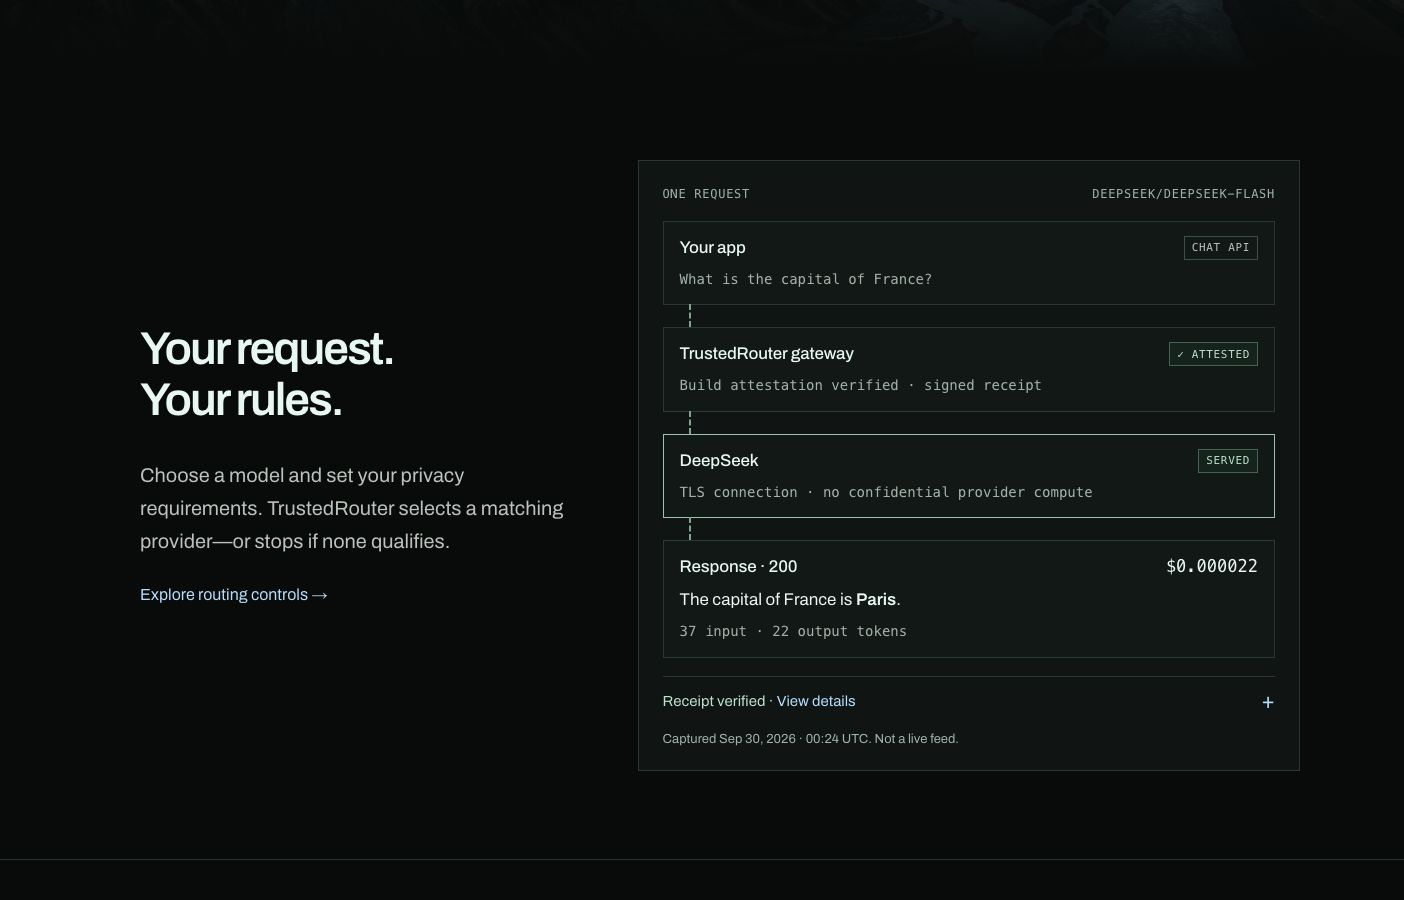
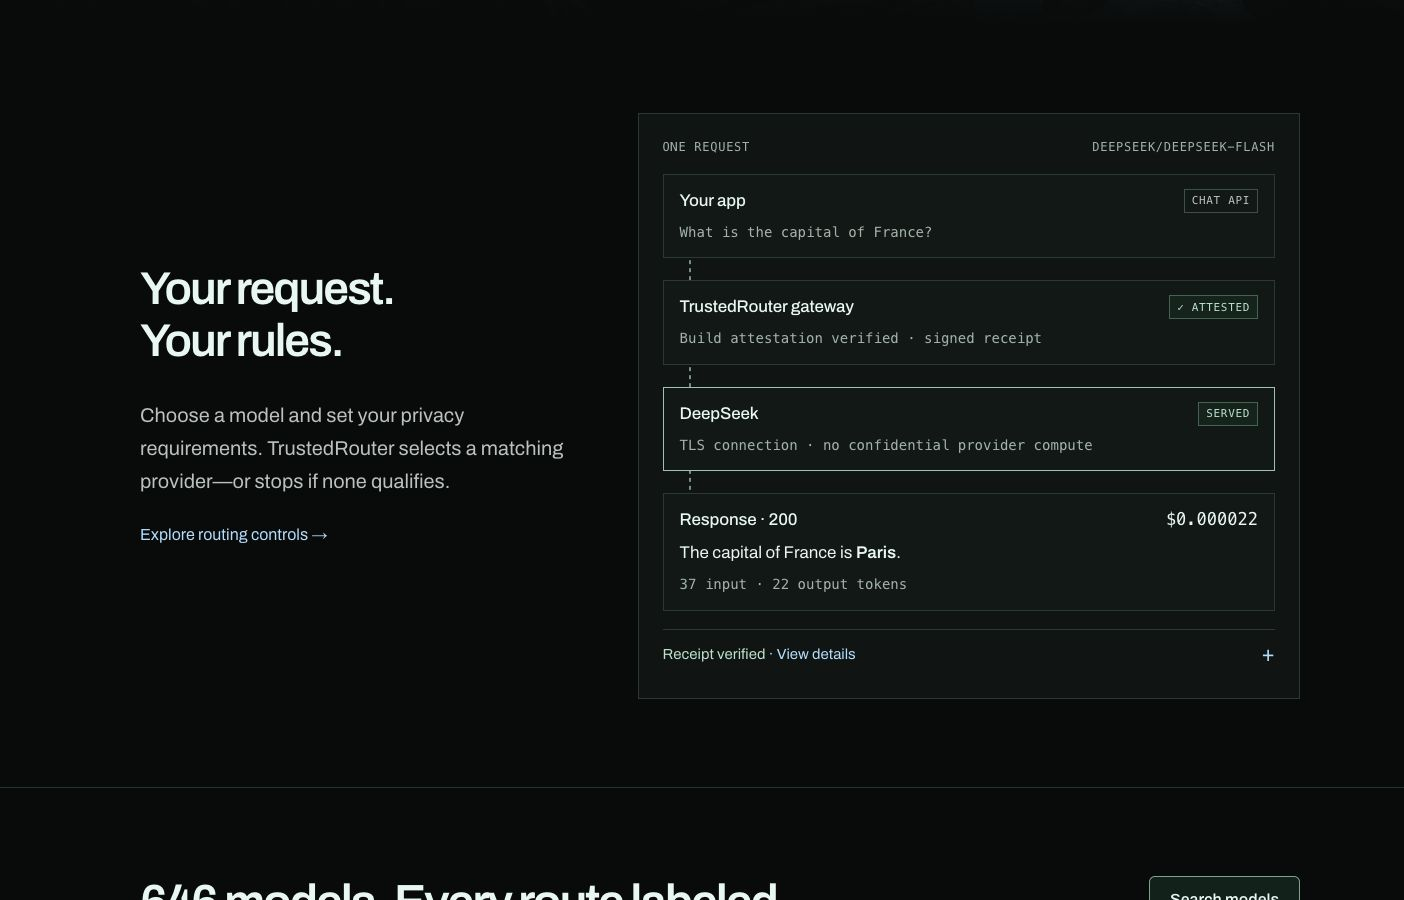
Animate request connectors and simplify receipt footer

diff --git a/src/trusted_router/static/homepage/application.css b/src/trusted_router/static/homepage/application.css
@@ -88,7 +88,11 @@ body.homepage-production{--preview-bar-height:0px}
 .receipt-header span:last-child{overflow-wrap:anywhere}
 .receipt-path{list-style:none;margin:0;padding:0;display:grid;gap:22px}
 .receipt-node{position:relative;min-width:0;padding:14px 16px;border:1px solid #33403a;background:#121915}
-.receipt-node:not(:last-child)::after{content:"";position:absolute;left:25px;top:100%;height:23px;border-left:2px dashed #8eac99}
+.receipt-node:not(:last-child)::after{content:"";position:absolute;left:25px;top:100%;height:23px;width:2px;background:repeating-linear-gradient(to bottom,#b0ccba 0 4px,transparent 4px 8px);background-size:2px 8px;opacity:.7;pointer-events:none}
+.receipt-provider::after{transform:scaleY(-1)}
+@keyframes receipt-flow{to{background-position:0 8px}}
+@media(prefers-reduced-motion:no-preference){.receipt-node:not(:last-child)::after{animation:receipt-flow 1s linear infinite}}
+@media(prefers-reduced-motion:reduce){.receipt-node:not(:last-child)::after{animation:none}}
 .receipt-node-heading{display:flex;align-items:center;justify-content:space-between;flex-wrap:wrap;gap:8px 14px}
 .receipt-node h3{font:500 17px/1.4 var(--sans);letter-spacing:-.01em;color:#edf8f5;margin:0}
 .receipt-node p{margin:8px 0 0;max-width:none}
@@ -111,7 +115,6 @@ body.homepage-production{--preview-bar-height:0px}
 .request-proof-checks{padding-left:20px}
 .request-proof-checks li+li{margin-top:8px}
 .request-proof-checks li::marker{color:#b8eecc}
-.receipt-capture{margin:4px 0 0;color:#adbbb2;font-size:13px;line-height:1.6}
 @media(max-width:1000px){.request-layout{grid-template-columns:1fr;gap:36px}}
 @media(max-width:600px){
  .request-intro .request-lede{font-size:18px}

diff --git a/src/trusted_router/templates/homepage/request.html b/src/trusted_router/templates/homepage/request.html
@@ -34,11 +34,10 @@
       <li>Request and response hashes matched the captured content.</li>
       <li>The receipt identified DeepSeek as the serving provider.</li>
      </ul>
-     <p>This route used a TLS connection to DeepSeek, not confidential provider compute. Token counts and cost are those reported for this request.</p>
+     <p>This captured request used a TLS connection to DeepSeek, not confidential provider compute. Token counts and cost are those reported for this request.</p>
      <a href="/docs/receipts">How receipt verification works →</a>
     </div>
    </details>
-   <p class="receipt-capture">Captured <time datetime="2026-09-30T00:24:38Z">Sep 30, 2026 · 00:24 UTC</time>. Not a live feed.</p>
   </figure>
  </div>
 </section>

diff --git a/docs/homepage/README.md b/docs/homepage/README.md
@@ -90,3 +90,10 @@ Compared the supplied screenshot and original `Downloads/trustedrouter-homepage-
 The original mock shows three provider states. The real capture only supports one served DeepSeek route, so this panel retains one selected provider and does not invent standby/rejected routes, confidential compute, cloud failover, SDK use or attestation age. Actual question, answer, response code, usage, cost and verified receipt summary are retained. A date labels the captured evidence; receipt details remain collapsed at all widths.
 
 Validation: localhost and ngrok both show the new panel. Checked 1440px desktop and 390px/320px phones, keyboard Enter/focus and expanded details without horizontal overflow. Muted metadata contrast is at least 8.96:1; proof badge text is 11.55:1. The connector is static and introduces no motion. Eight focused homepage tests and whitespace checks passed; full release gates remain deferred, not claimed passing. Screenshot: `qa/captured-request-panel-desktop.png`. Raw evidence is preserved locally and remains uncommitted. No dependency changes, production changes, push or deployment.
+
+
+## Connector motion and cleaner panel — September 29, latest direction
+
+Matched the original mock’s 2px dotted connectors, 4px dash/gap spacing and one-second linear flow. The final response connector reverses direction like the mock. Motion is enabled only with `prefers-reduced-motion: no-preference`; reduced motion keeps the lines static. Removed the visible capture timestamp/date and “Not a live feed” footer at the designer’s request. Receipt details identify this as a captured request; the original evidence files retain the exact timestamp.
+
+Verified progressing computed animation positions, one-second duration and reversed final connector on localhost; verified updated assets on ngrok. Desktop and 390px phone checks found no horizontal overflow. Reduced-motion CSS was inspected; OS preferences were not changed. Whitespace checks passed. This CSS/copy change adds no backend behavior; full release gates remain deferred.
